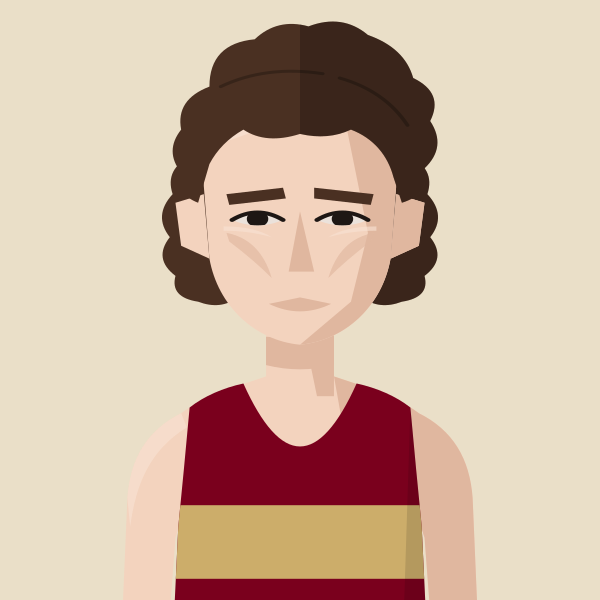
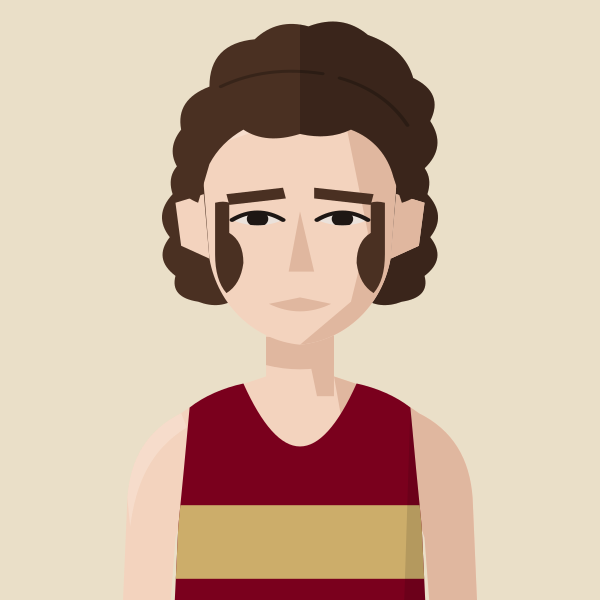
John Bicourt: big 70s sideburns (new option)
Claude-Session: https://claude.ai/code/session_01MgmDWhFqnSSnP4iBLKXUZC

Changed region(s): [[0.57, 0.33, 0.66, 0.48], [0.36, 0.33, 0.42, 0.48]]

diff --git a/files/index.html b/files/index.html
@@ -581,7 +581,7 @@ return m;})();
 const portraitFile=(name,club)=>{const k=normalizeNameForCompare(name||'').replace(/\s*\(([^)]*)\)$/,(m,c)=>CLUBS[c.toUpperCase()]?'':m);const a=PORTRAITS[k];if(a&&a.club===club)return a.file;const b=PORTRAITS[k+'@'+club];return b?b.file:null;};
 // Athlete header figure: superstar portrait if we have one, else a grey runner in the club vest, else the plain vest icon
 // Changes whenever any portrait changes (set by tools/build_og.py), so browsers fetch fresh images instead of old cached ones
-const PORTRAIT_V='7e6aec29';
+const PORTRAIT_V='63822601';
 const AthletePortrait=({name,club,w,fill,onClick})=>{const[failed,setFailed]=useState(false);const file=portraitFile(name,club);const src=file?`/portraits/athletes/${file}.svg?v=${PORTRAIT_V}`:PORTRAIT_CLUBS.has(club)?`/portraits/clubs/${club.replace(/\//g,'').replace(/&/g,'and')}.svg?v=${PORTRAIT_V}`:null;if(!src||failed)return<div onClick={onClick} className={onClick?'cursor-pointer':''}><ClubShield club={club} size={w}/></div>;const h=Math.round(w*148/126),ih=Math.round(w*1.4);if(fill)return<div onClick={onClick} className="cursor-pointer" style={{alignSelf:'stretch',minHeight:h,aspectRatio:'126 / 148',flexShrink:0,position:'relative',borderRadius:4,overflow:'hidden'}}><img src={src} alt={file?`Portrait of ${name.replace(/\s*\([^)]*\)$/,'')}`:`Runner in ${CLUBS[club]?.name||club} vest`} style={{position:'absolute',top:0,left:0,display:'block',width:'100%',height:'auto'}} onError={()=>setFailed(true)}/></div>;return<div style={{width:w,height:h,borderRadius:4,overflow:'hidden',flexShrink:0}}><img src={src} alt={file?`Portrait of ${name.replace(/\s*\([^)]*\)$/,'')}`:`Runner in ${CLUBS[club]?.name||club} vest`} width={w} height={ih} style={{display:'block',width:w,height:ih}} onError={()=>setFailed(true)}/></div>;};
 const getClubVestSvg=(club)=>{
   const p="M3 0 L6 0 Q7 4 10 5 Q13 4 14 0 L17 0 L17 20 L3 20 Z";

diff --git a/tools/gen_portraits.py b/tools/gen_portraits.py
@@ -160,7 +160,7 @@ FACIAL = {
 def _eyewhite(sk):  # an off-white, tinted towards the skin so it never glares
     return '#' + ''.join(f'{round(int(sk[i:i+2],16)*0.3+0xE8*0.7):02X}' for i in (1,3,5))
 
-def figure(kit, mode="custom", skin=1, hair="crop", hair_colour="dark brown", facial=None, cap=None, shades=False, tattoos=False, beanie=None, mud=False, glasses=False, roots=None, stars=0, gaunt=False, greying=False, headband=None, cap_back=False, facial_colour=None, tag="f", shades_col=None, shades_up=False, scrunchie=None, crown=False, jacket=None, medal=None, temples=False, cleft=False, brow_colour=None, jacket_marks=None, define=None, frown=False, hood=None, puffy=False, creases=False, necklace=None, shades_frame="#F4F4F2", thin_brows=False, headband_thick=False, parting=False, rosy=False, glasses_col="#9A9DA3"):
+def figure(kit, mode="custom", skin=1, hair="crop", hair_colour="dark brown", facial=None, cap=None, shades=False, tattoos=False, beanie=None, mud=False, glasses=False, roots=None, stars=0, gaunt=False, greying=False, headband=None, cap_back=False, facial_colour=None, tag="f", shades_col=None, shades_up=False, scrunchie=None, crown=False, jacket=None, medal=None, temples=False, cleft=False, brow_colour=None, jacket_marks=None, define=None, frown=False, hood=None, puffy=False, creases=False, necklace=None, shades_frame="#F4F4F2", thin_brows=False, headband_thick=False, parting=False, rosy=False, glasses_col="#9A9DA3", sideburns=False):
     primary, extras, ground = KITS[kit]
     line = mode == "outline"
     if mode == "custom": sk, dk, lt = SKIN[skin]
@@ -263,6 +263,8 @@ def figure(kit, mode="custom", skin=1, hair="crop", hair_colour="dark brown", fa
                 hg.append(f'<g stroke="{hc}">{CURLY_WISPS}</g>')
             if rosy:  # flushed cheeks
                 hg.append('<g fill="#E0505A" opacity=".2"><ellipse cx="80" cy="130" rx="12" ry="8.5"/><ellipse cx="120" cy="130" rx="12" ry="8.5"/></g>')
+            if sideburns:  # long 70s sideburns down the cheeks
+                hg.append(f'<g fill="{hc}"><path d="M70,104 Q73,103 75,104 L75,118 Q80,122 80,132 Q79,142 74,146 Q70,140 70,128 Z"/><path d="M130,104 Q127,103 125,104 L125,118 Q120,122 120,132 Q121,142 126,146 Q130,140 130,128 Z"/></g>')
             if hair == "highpony":  # hair tie where the bunch is gathered on top
                 hg.append('<path d="M89,40 Q100,44 111,40 L110,44.5 Q100,48.5 90,44.5 Z" fill="#000" fill-opacity=".35"/>')
     if custom and glasses:
@@ -720,4 +722,4 @@ save("dave-taylor", figure("HHH", skin=2, hair="croprecede", hair_colour="#5A3E2
 save("ben-reynolds", figure("THH", skin=1, hair="buzzrecede", hair_colour="#6B5A4A", gaunt=True))
 save("tom-jervis", figure("H/W", skin=1, hair="quiff", hair_colour="#E3C98A", facial="stubble", facial_colour="#C9A060", brow_colour="#C9A060", rosy=True))
 save("nick-torry", figure("KEN", skin=1, hair="croprecede", hair_colour="#6B4A2E", glasses=True, glasses_col="#1E1E22", gaunt=True))
-save("john-bicourt", figure("BEL", skin=1, hair="seventies", hair_colour="#4A3022", gaunt=True))
+save("john-bicourt", figure("BEL", skin=1, hair="seventies", hair_colour="#4A3022", sideburns=True))
